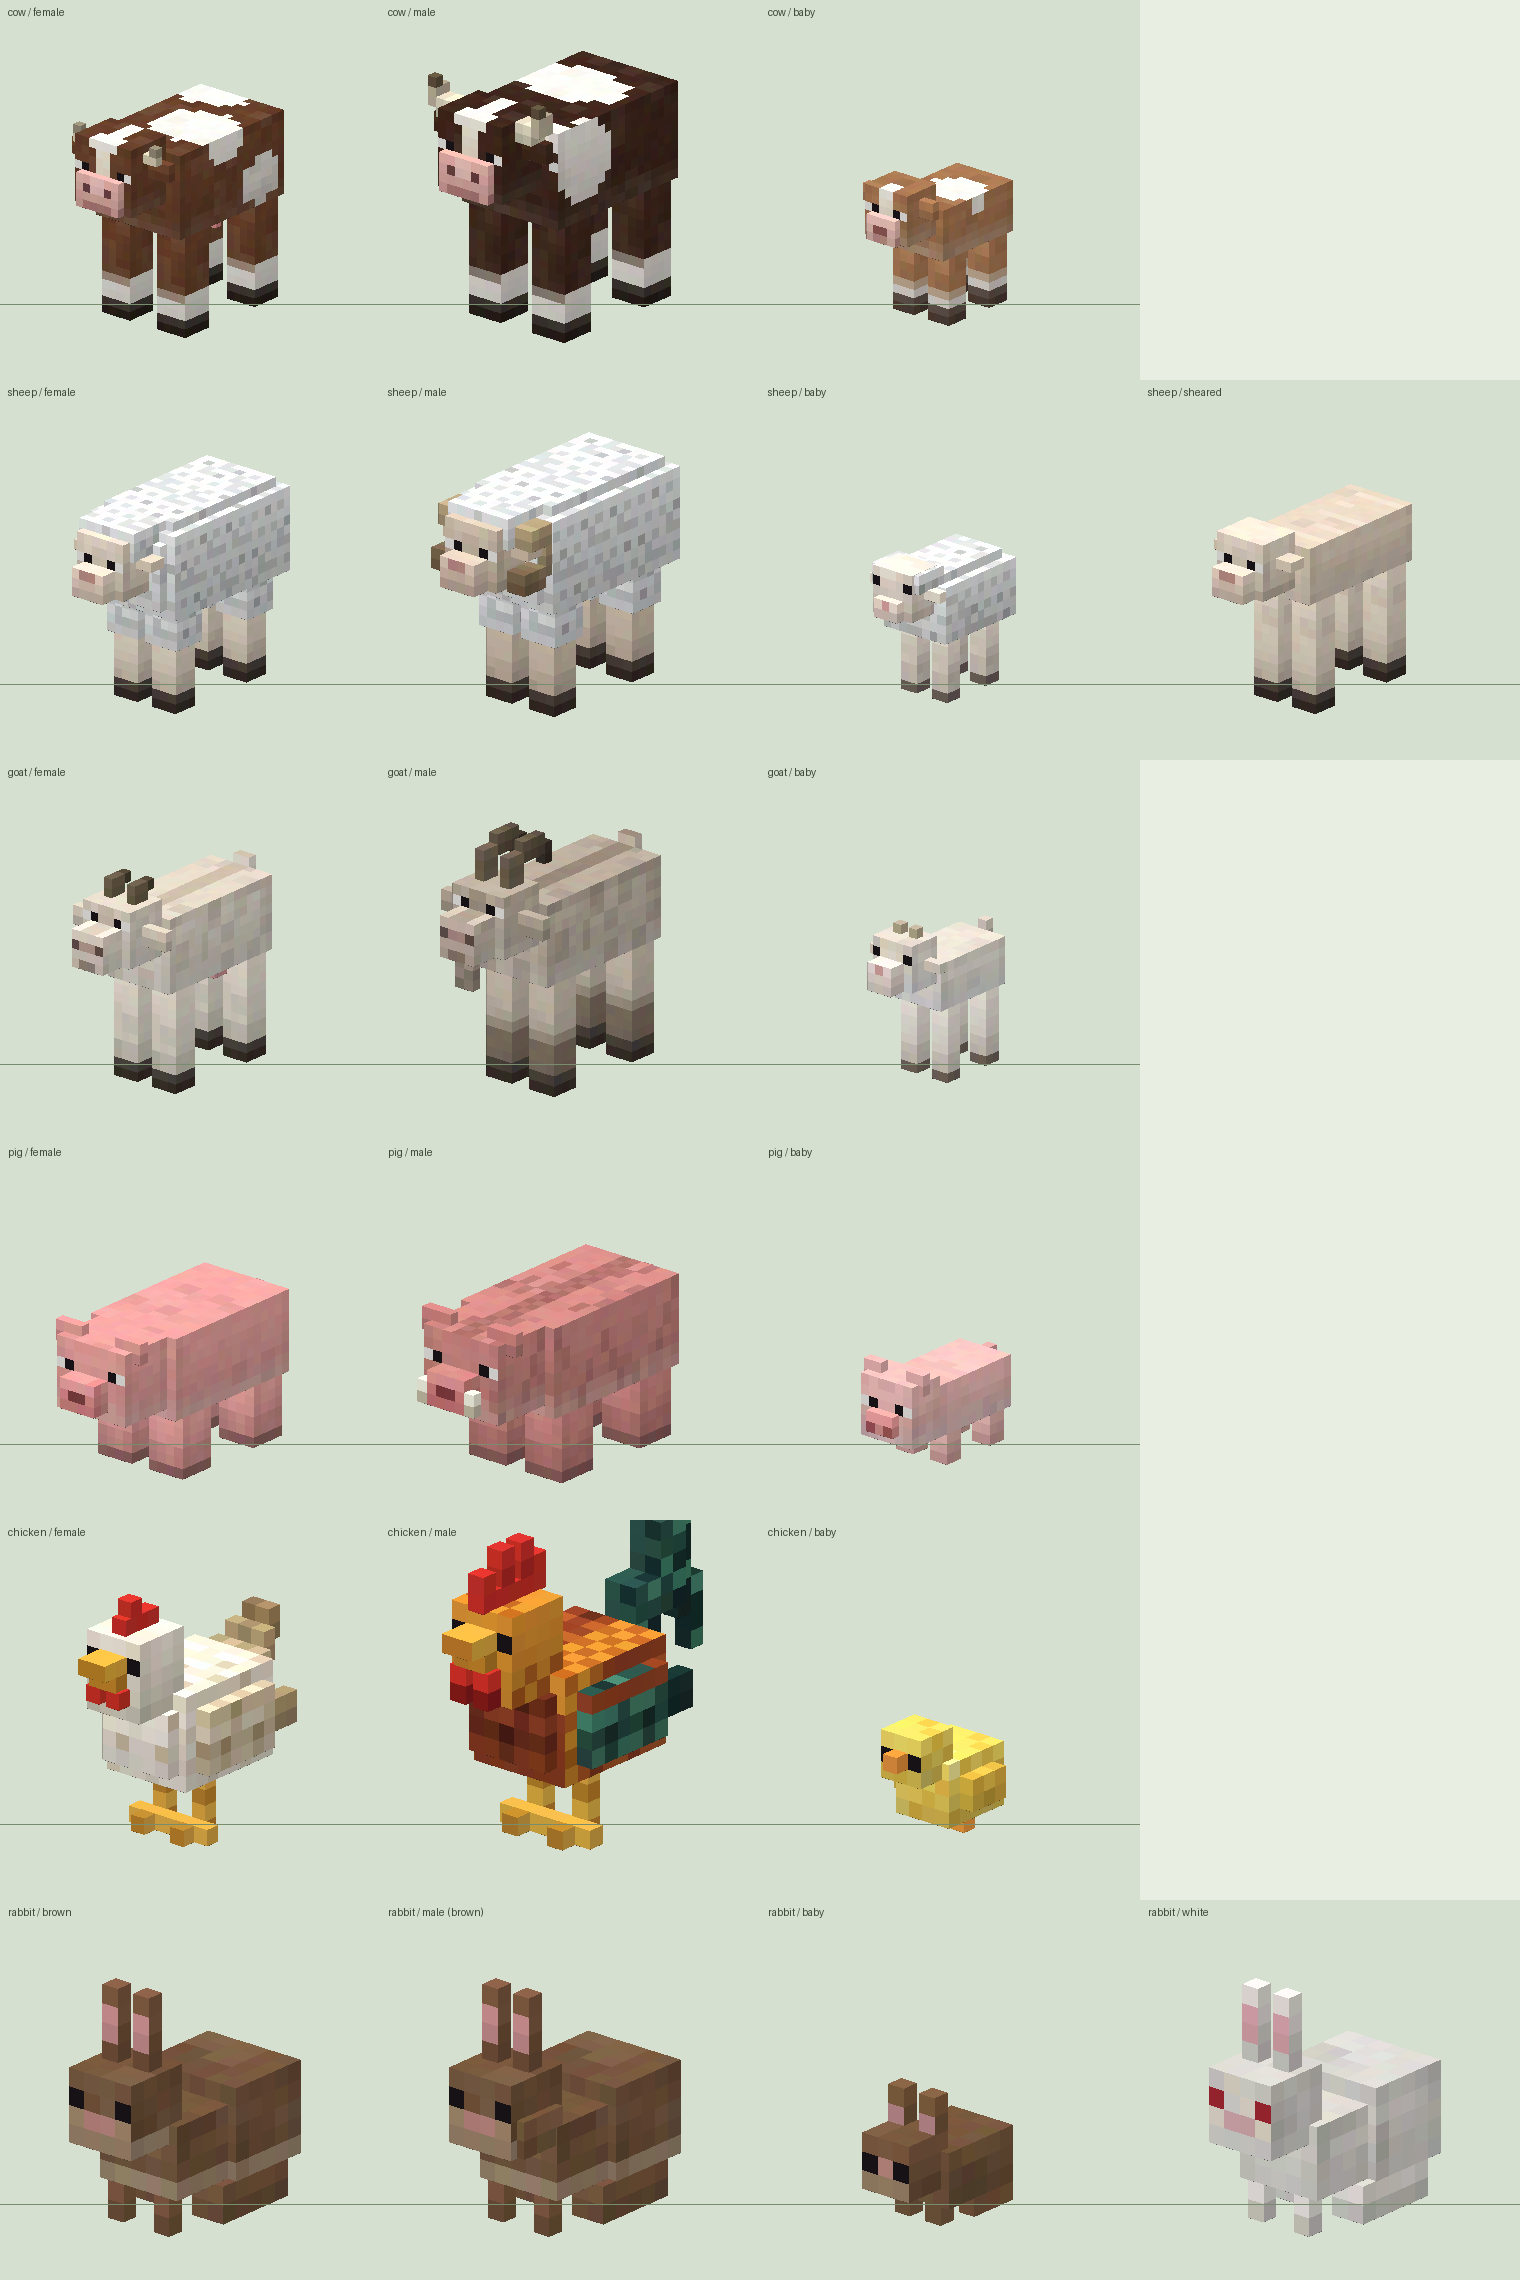
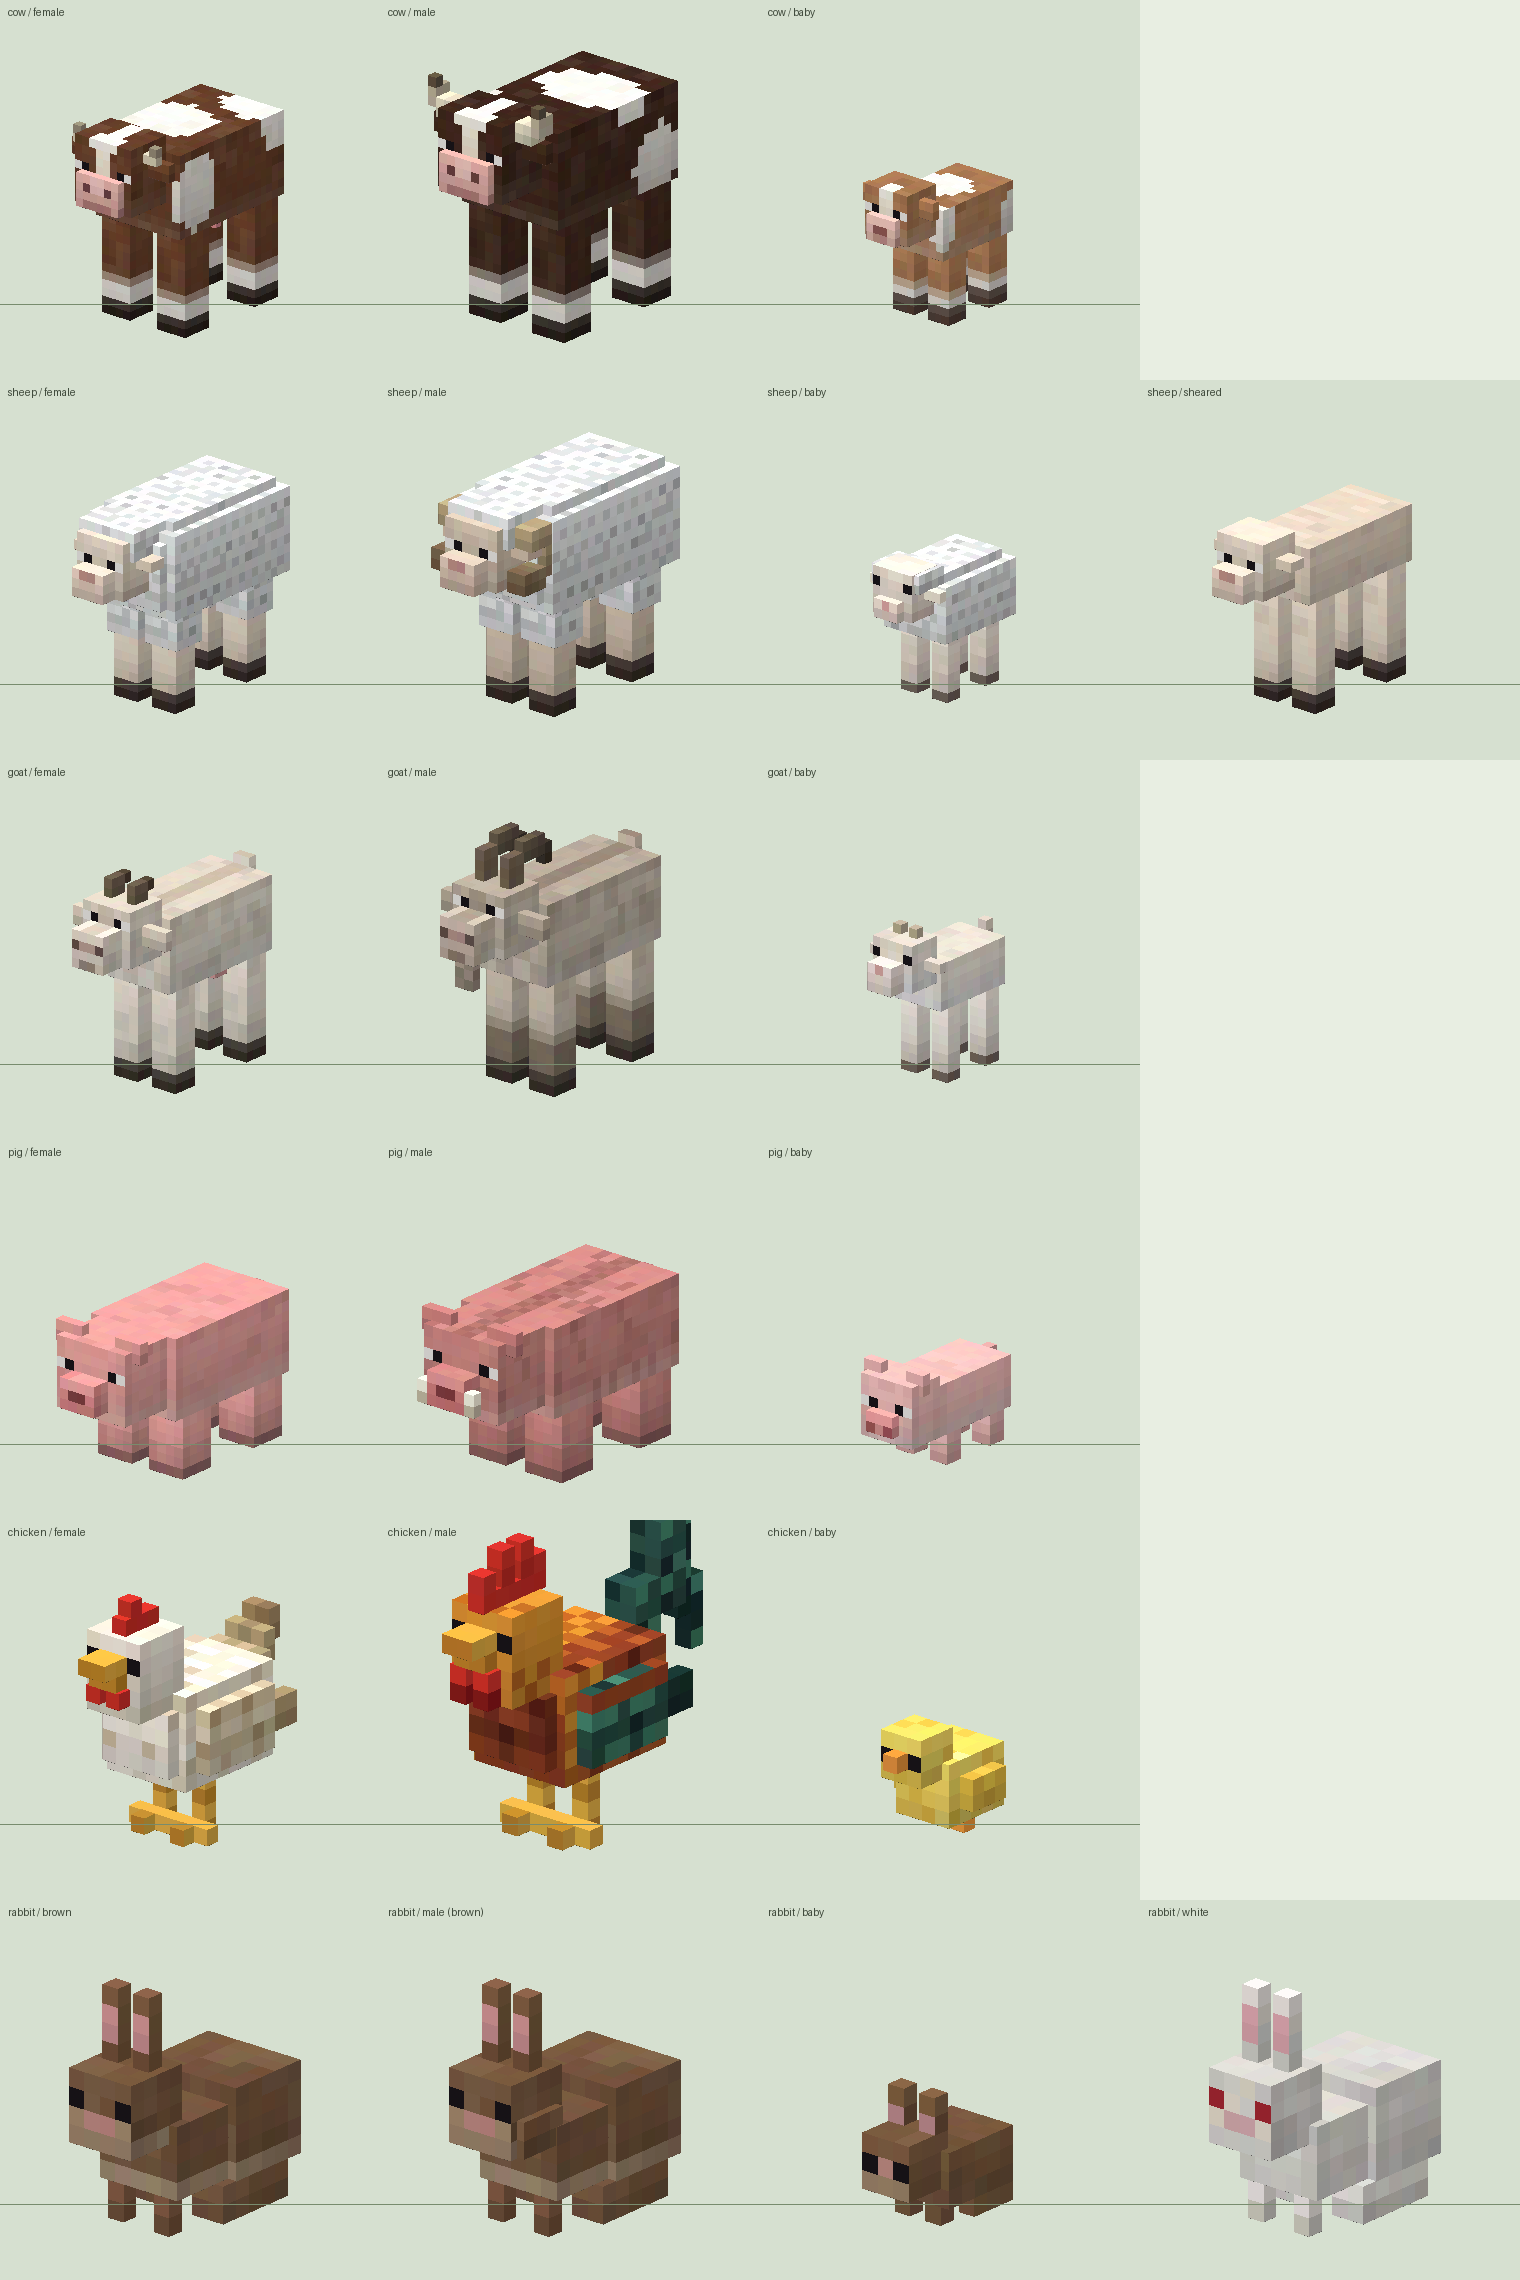
Previews and eyelids follow Bedrock's box-UV x direction
sleep_preview.py mirrored every face in x (east drawn on the largest x); the
eyelids in gen_sleep.mjs took their column from the same wrong side. Symmetric
eyes hid it. Regenerated models and previews.

diff --git a/art_src/m4_scripts/sleep_preview.py b/art_src/m4_scripts/sleep_preview.py
@@ -56,9 +56,11 @@ def face_point(cube, face, a, b):
     (x, y, z), (w, h, d) = cube["origin"], cube["size"]
     x1, y1, z1 = x + w, y + h, z + d
     return {
-        "up": (x1 - a * w, y1, z1 - b * d), "down": (x1 - a * w, y, z1 - b * d),
-        "north": (x1 - a * w, y1 - b * h, z), "south": (x + a * w, y1 - b * h, z1),
-        "east": (x1, y1 - b * h, z1 - a * d), "west": (x, y1 - b * h, z + a * d),
+        # Bedrock box UV: the left strip ("east") is the cube's smallest-x side, and the top,
+        # bottom and north faces run their first texel column from the smallest x.
+        "up": (x + a * w, y1, z1 - b * d), "down": (x + a * w, y, z1 - b * d),
+        "north": (x + a * w, y1 - b * h, z), "south": (x1 - a * w, y1 - b * h, z1),
+        "east": (x, y1 - b * h, z1 - a * d), "west": (x1, y1 - b * h, z + a * d),
     }[face]
 
 

diff --git a/art_src/m4_scripts/m1_animals.py b/art_src/m4_scripts/m1_animals.py
@@ -97,8 +97,9 @@ def dims(p, name):
 
 
 def xyz(f, i, j, W, H, D):
-    """Centre of a face texel inside its cube: x in from the +x side, y down from the top,
-    z back from the front. Lets a marking run round the corners of a box."""
+    """Centre of a face texel inside its cube: x in from the side the "east" strip is on (the
+    cube's smallest x in the game), y down from the top, z back from the front. Lets a marking
+    run round the corners of a box."""
     if f == "north":
         return i + .5, j + .5, 0
     if f == "south":
